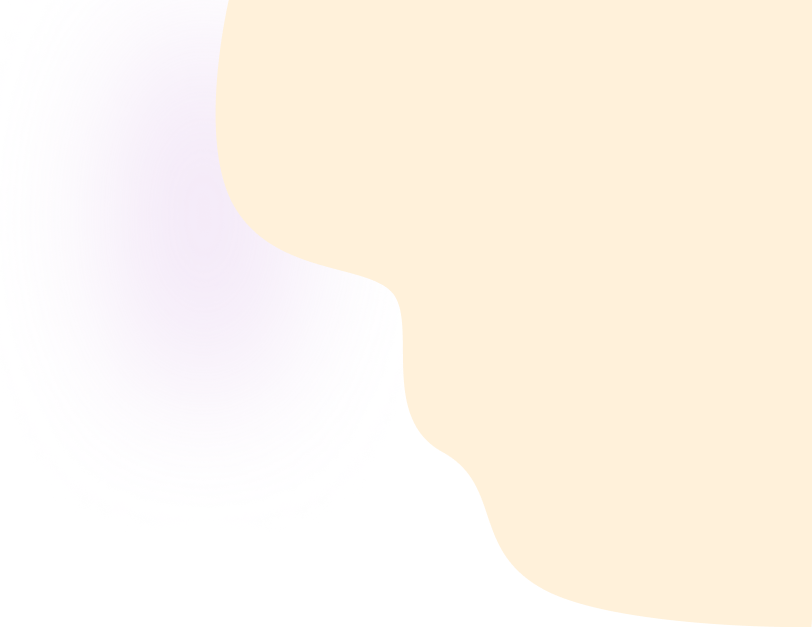
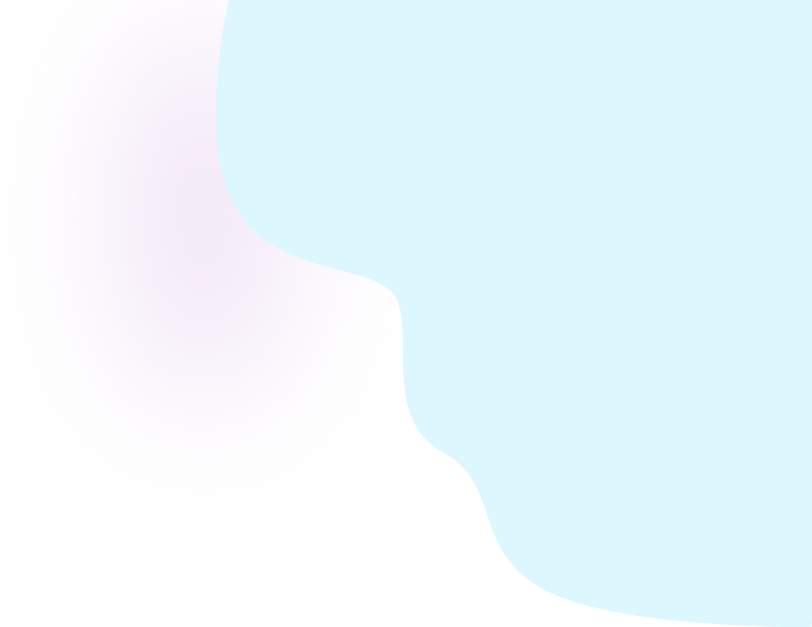
...changing theme of full app phase 1

diff --git a/src/pages/protected/superadmin/dashboard/Dashboard.jsx b/src/pages/protected/superadmin/dashboard/Dashboard.jsx
@@ -88,12 +88,12 @@ const Dashboard = () => {
 
       {empty?.length ? (
         <div className="bg-white rounded-md logs_widget relative overflow-x-hidden mb-[5rem]">
-          <p className="text-[#df6951] text-[25px] font-[inter] font-bold my-10 text-center logs_header_text_shadow">
+          <p className="text-[#02aae2] text-[25px] font-[inter] font-bold my-10 text-center logs_header_text_shadow">
             User Bookings Logs
           </p>
           <div className="logs_table mx-16 mb-20 overflow-x-scroll">
             <div className="grid gap-3 pb-8 logs_title border-b-2 border-[#6c99c411]">
-              <p className="text-[black] text-[16px] font-[inter] font-bold justify-self-start col-span-3">
+              <p className="text-[black] ml-2  text-[16px] font-[inter] font-bold justify-self-start col-span-3">
                 Name
               </p>
               <p className="text-[black] text-[16px] font-[inter] font-bold col-span-3">
@@ -122,7 +122,7 @@ const Dashboard = () => {
                     key={id}
                     className="cursor-pointer grid gap-3 pt-4 logs_item1 border-b-2 border-[#6c99c411] pb-4"
                   >
-                    <p className="justify-self-start text-[#7e7d7d] col-span-3">
+                    <p className=" ml-2 justify-self-start text-[#7e7d7d] col-span-3">
                       {value.name}
                     </p>
                     <p className="col-span-3 text-[#7e7d7d]">{value.date}</p>

diff --git a/src/components/table/Table.jsx b/src/components/table/Table.jsx
@@ -9,6 +9,7 @@ const Table = ({ data, status, detailUrl }) => {
   const tablePending = status === "Pending" ? "table_pending" : "";
   const tableDeclined = status === "Rejected" ? "table_declined" : "";
   const tableAccepted = status === "Accepted" ? "table_accepted" : "";
+  const tablePaid = status === "Paid" ? "table_paid" : "";
 
   return (
     <div className="table_wrapper overflow-x-hidden">
@@ -130,7 +131,7 @@ const Table = ({ data, status, detailUrl }) => {
                     });
                   }}
                   key={id}
-                  className={`cursor-pointer grid gap-3 pt-4 table_item1 ${tableAccepted} ${tableDeclined} ${tablePending} border-b-2 border-[#6c99c411] pb-4`}
+                  className={`cursor-pointer grid gap-3 pt-4 table_item1 ${tableAccepted} ${tableDeclined} ${tablePending} ${tablePaid} border-b-2 border-[#6c99c411] pb-4`}
                 >
                   <p className="justify-self-start text-[#7e7d7d] col-span-3 ml-4">
                     {value.name}

diff --git a/src/pages/protected/superadmin/dashboard/dashboard.scss b/src/pages/protected/superadmin/dashboard/dashboard.scss
@@ -35,7 +35,7 @@
 }
 
 .logs_wrapper {
-   .superadmindashboard_head_title {
+  .superadmindashboard_head_title {
     font-family: "Poppins";
     font-style: normal;
     font-weight: 600;
@@ -107,11 +107,11 @@
         height: 10px;
       }
       &::-webkit-scrollbar-thumb {
-        background: #df69518c;
+        background: #02aae2;
         border-radius: 8px;
         border: 2px solid #e0e0e0;
         &:hover {
-          background-color: #df6951;
+          background-color: #02aae29c;
         }
       }
       .logs_title {
@@ -135,9 +135,9 @@
           grid-template-columns: repeat(11, minmax(0, 1fr));
           justify-items: center;
           &:hover {
-            background-color: #fcefec;
+            background-color: #c2e6f9;
             * {
-              color: #7e7d7db6;
+              color: #02aae2;
             }
           }
         }

diff --git a/src/pages/authentication/signup/signup.scss b/src/pages/authentication/signup/signup.scss
@@ -7,9 +7,9 @@
 }
 @mixin forminputstyle {
   background: #ffffff;
-  border: 1px solid #ef4136;
+  border: 1px solid #02aae2;
   border-radius: 6px;
-  outline: #ef4136;
+  outline: #02aae2;
   padding: 0.8rem 1rem;
 }
 @mixin labelinputalign {
@@ -101,7 +101,7 @@
             font-weight: 400;
             font-size: 20px;
             // line-height: 80px;
-            color: #df6951;
+            color: #02aae2;
             margin-left: 0.5rem;
             cursor: pointer;
             @media screen and (max-width: 480px) {
@@ -171,8 +171,8 @@
           }
         }
         .signup_button {
-          background: #df6951;
-          border: 1px solid #df6951;
+          background: #02aae2;
+          border: 1px solid #02aae2;
           border-radius: 6px;
           font-family: "Volkhov";
           font-style: normal;

diff --git a/src/pages/authentication/login/login.scss b/src/pages/authentication/login/login.scss
@@ -7,9 +7,9 @@
 }
 @mixin forminputstyle {
   background: #ffffff;
-  border: 1px solid #ef4136;
+  border: 1px solid #02aae2;
   border-radius: 6px;
-  outline: #ef4136;
+  outline: #02aae2;
   padding: 0.8rem 1rem;
 }
 @mixin labelinputalign {
@@ -102,7 +102,7 @@
             font-weight: 400;
             font-size: 20px;
             // line-height: 80px;
-            color: #df6951;
+            color: #02aae2;
             margin-left: 0.5rem;
             cursor: pointer;
             @media screen and (max-width: 480px) {
@@ -141,8 +141,8 @@
           }
         }
         .login_button {
-          background: #df6951;
-          border: 1px solid #df6951;
+          background: #02aae2;
+          border: 1px solid #02aae2;
           border-radius: 6px;
           font-family: "Volkhov";
           font-style: normal;

diff --git a/src/pages/protected/user/booking/booking.scss b/src/pages/protected/user/booking/booking.scss
@@ -20,8 +20,9 @@
   background: #dbd3d2;
   border-radius: 10px;
   padding: 1rem;
+  border: 1px solid #02aae2;
   &:focus {
-    outline: 2px solid rgba(223, 105, 81, 0.57);
+    outline: 2px solid #02aae2;
   }
   &::placeholder {
     font-family: "Inter";
@@ -41,7 +42,7 @@
     font-weight: 600;
     font-size: 22px;
     color: rgba(30, 30, 30, 0.8);
-    margin-bottom: 1.5rem
+    margin-bottom: 1.5rem;
   }
   .booking_form {
     @include flex-col;
@@ -152,7 +153,7 @@
       font-size: 16px;
       color: #f3f3f3;
       padding: 1rem 3rem;
-      background: #df6951;
+      background: #02aae2;
       border-radius: 10px;
     }
   }

diff --git a/src/pages/protected/superadmin/index.jsx b/src/pages/protected/superadmin/index.jsx
@@ -13,7 +13,7 @@ const Index = () => {
     <div className="superadmin_wrapper">
       <Sidenav side={side} setSide={setSide} />
       <div className={`superadmin_outlet ${side ? "blur-sm" : ""}`}>
-        <div className="superadmin_nav border-b-[#df69513d] border-b-[1px]">
+        <div className="superadmin_nav border-b-[#02aae22a] border-b-[1px]">
           <GiHamburgerMenu
             onClick={() => {
               setSide(!side);

diff --git a/src/pages/protected/user/index.jsx b/src/pages/protected/user/index.jsx
@@ -13,7 +13,7 @@ const Index = () => {
     <div className="user_wrapper">
       <Sidenav side={side} setSide={setSide} />
       <div className={`user_outlet ${side ? "blur-sm" : ""}`}>
-        <div className="user_nav border-b-[#df69513d] border-b-[1px]">
+        <div className="user_nav border-b-[#02aae22a] border-b-[1px]">
           <GiHamburgerMenu
             onClick={() => {
               setSide(!side);

diff --git a/src/pages/error/construction.scss b/src/pages/error/construction.scss
@@ -65,7 +65,7 @@
           line-height: 49px;
           text-align: center;
           color: #ffffff;
-          background: #f1a501;
+          background: #02aae2;
           box-shadow: 0px 20px 35px rgba(241, 165, 1, 0.15);
           border-radius: 10px;
           padding: 0.1rem 1.5rem;

diff --git a/src/pages/error/notfound.scss b/src/pages/error/notfound.scss
@@ -64,7 +64,7 @@
           line-height: 49px;
           text-align: center;
           color: #ffffff;
-          background: #f1a501;
+          background: #02aae2;
           box-shadow: 0px 20px 35px rgba(241, 165, 1, 0.15);
           border-radius: 10px;
           padding: 0.1rem 1.5rem;

diff --git a/src/components/sideMenu/sideMenu.scss b/src/components/sideMenu/sideMenu.scss
@@ -7,7 +7,7 @@
   color: #000000;
 }
 @mixin LinkIcon {
-  color: rgba(223, 105, 81, 0.57);
+  color: #02aae2;
   font-size: 1.8rem;
 }
 @mixin Link {
@@ -15,7 +15,7 @@
 }
 
 @mixin LinkHover {
-  background: #df6951;
+  background: #02aae2;
   border-radius: 10px;
   // color: white;
 }

diff --git a/src/components/table/table.scss b/src/components/table/table.scss
@@ -76,6 +76,14 @@
             }
           }
         }
+        .table_paid {
+          &:hover {
+            background-color: #f6ddc5;
+            * {
+              color: #eea13d;
+            }
+          }
+        }
       }
     }
   }
